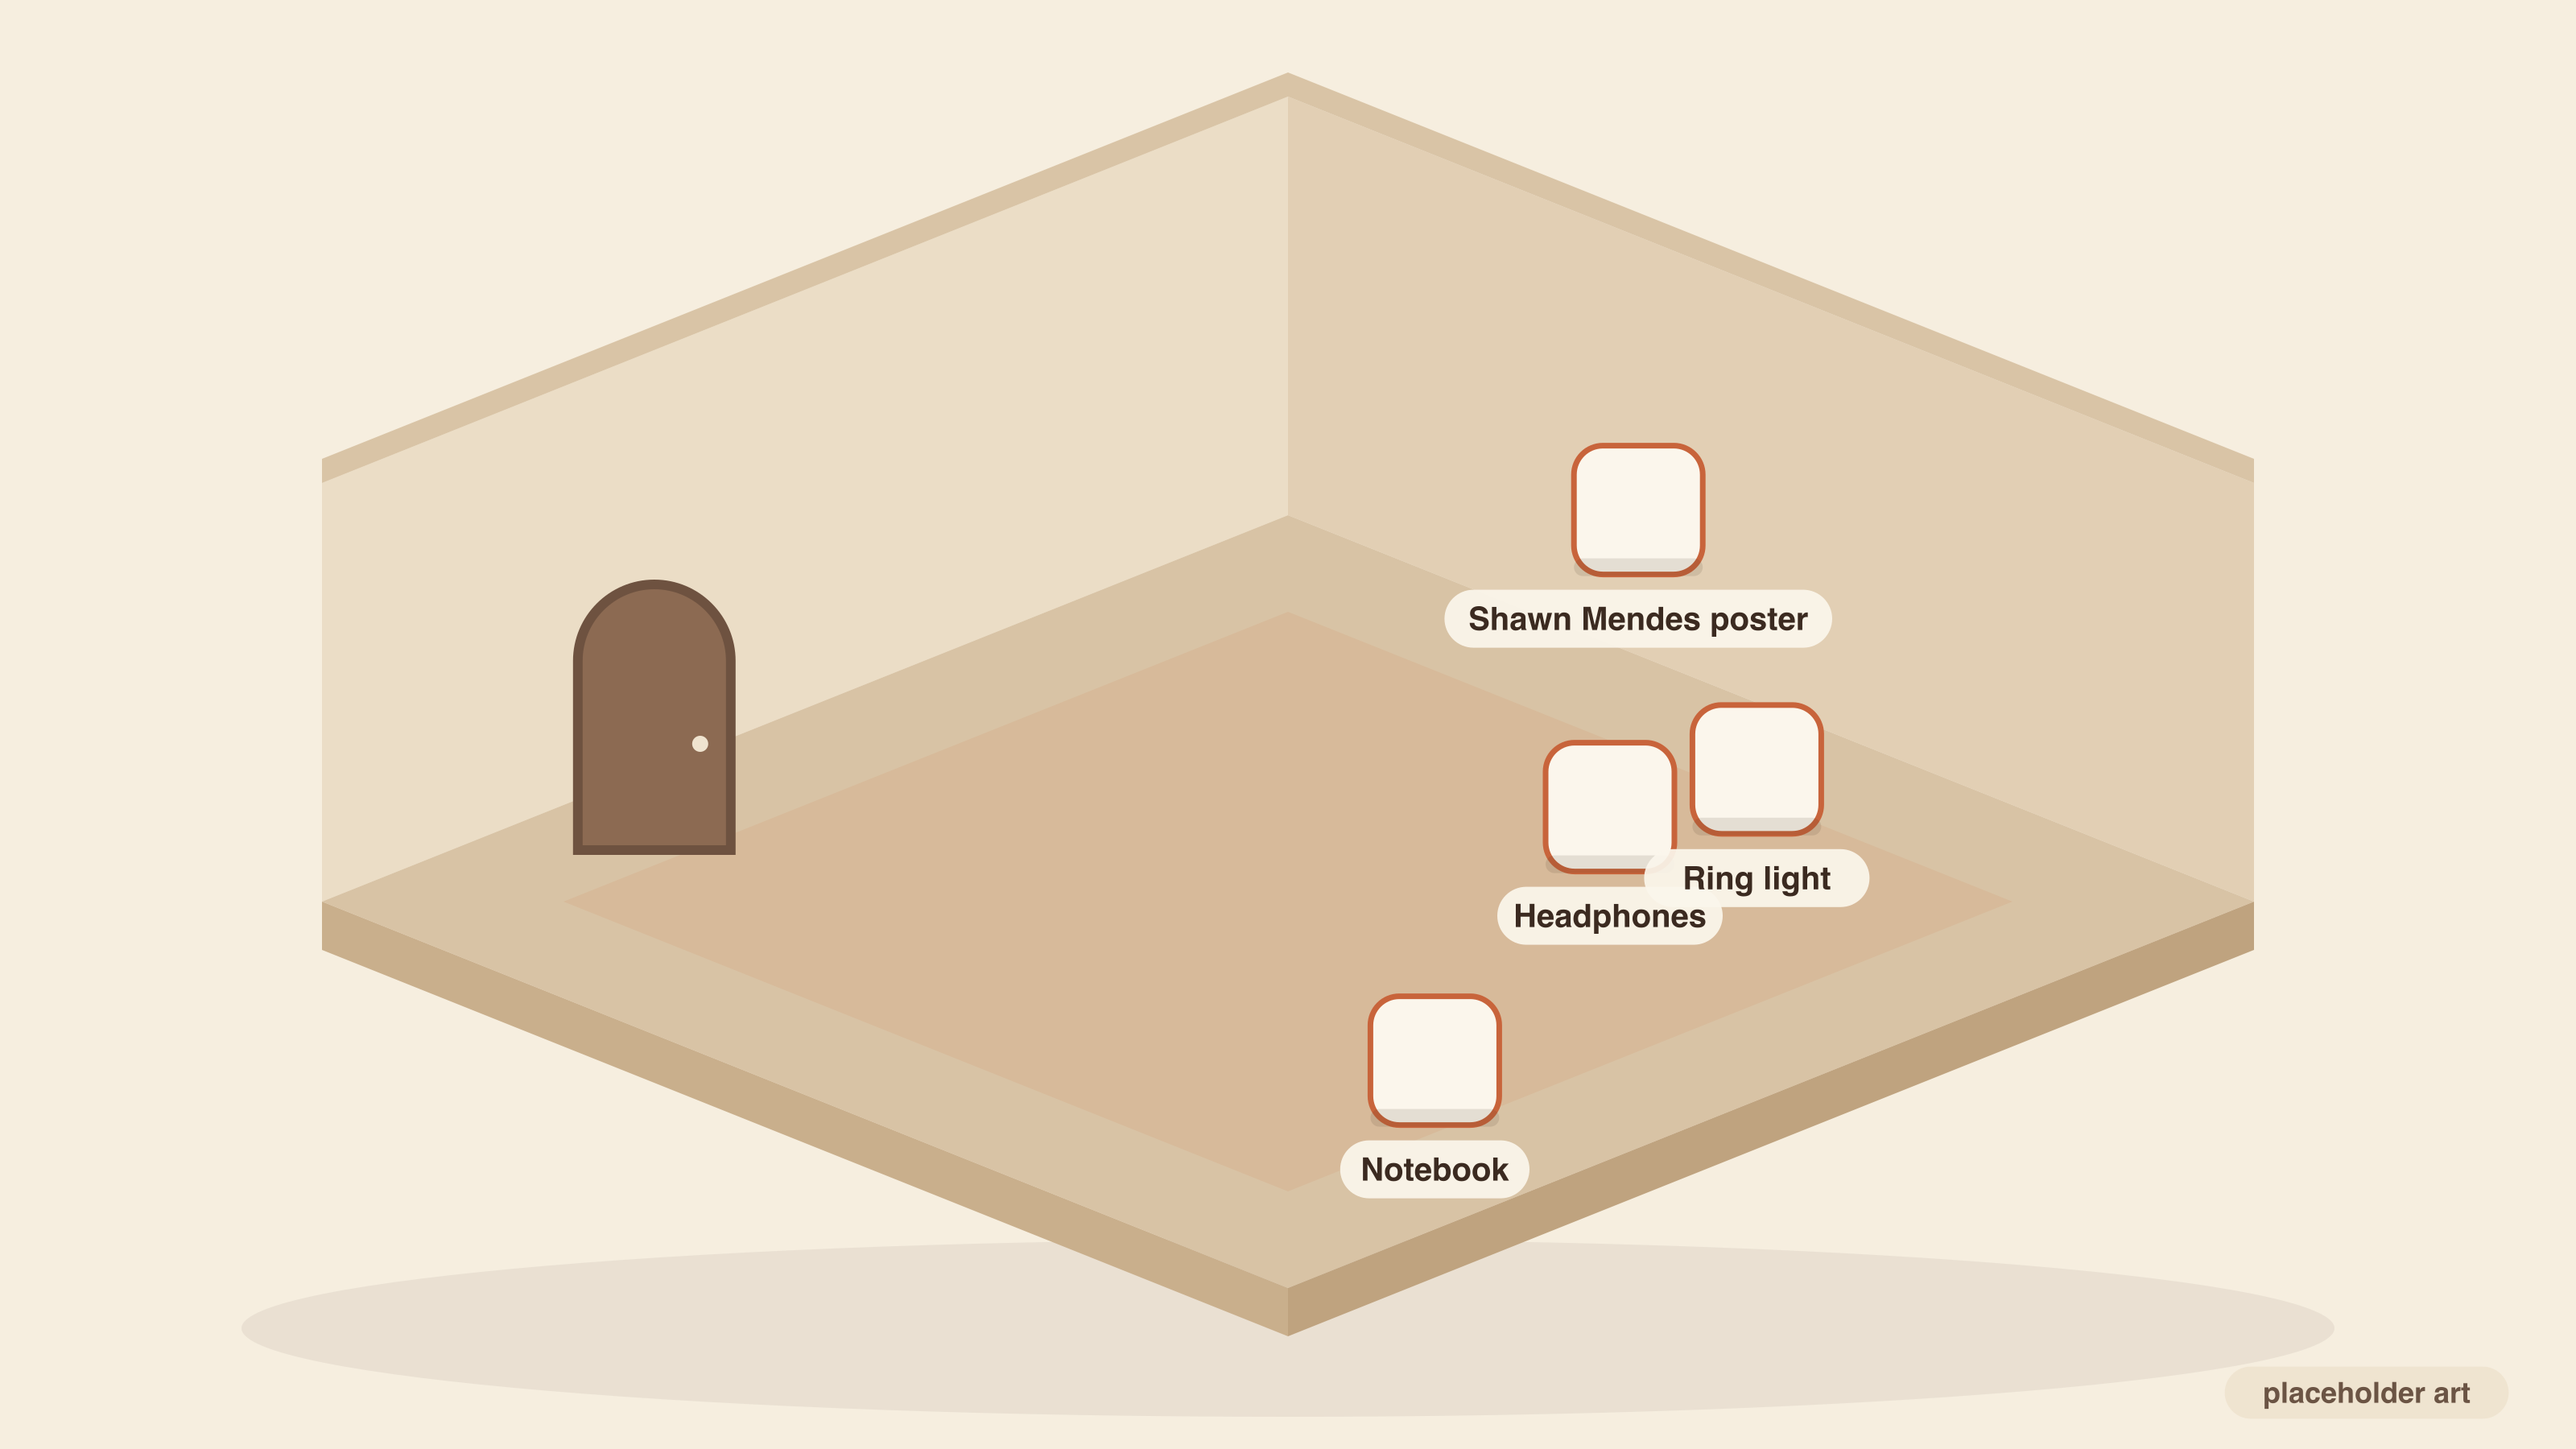
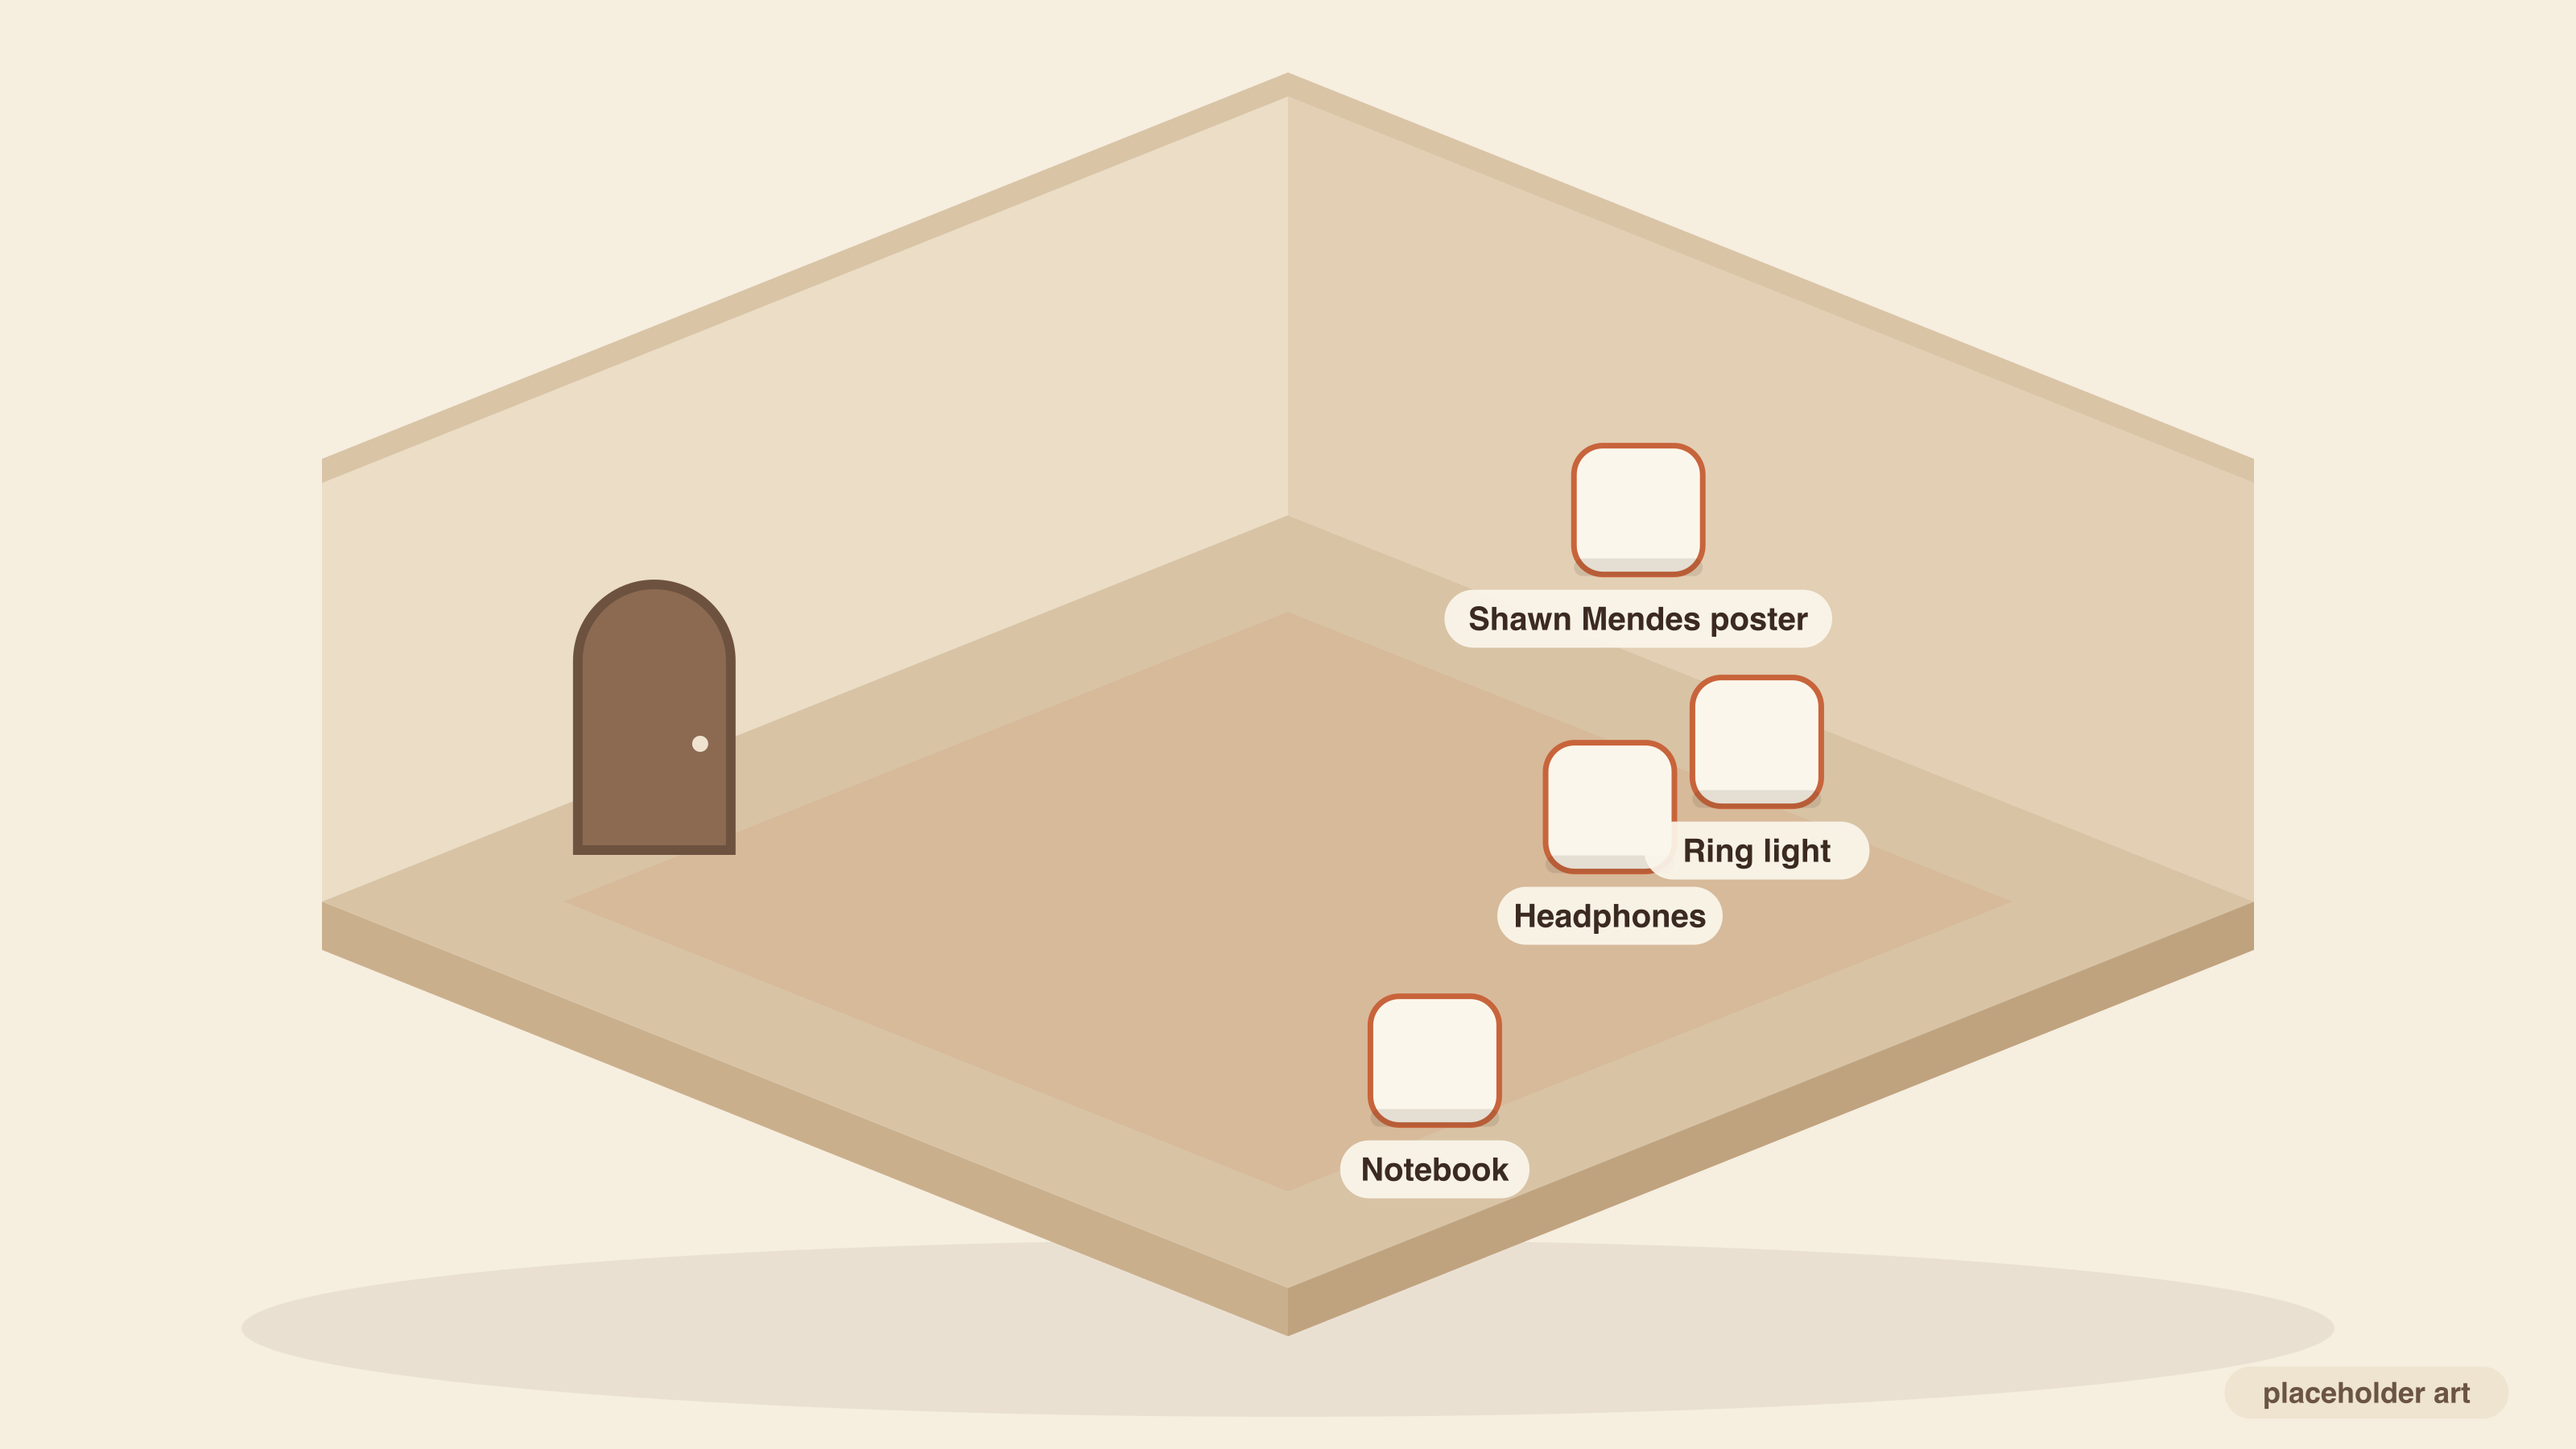
Add photo galleries to the notebook, name sign and mailbox
- Notebook: 10 photos from university life (photography class, campus
  events, friends on the lawn).
- Name sign: 8 portraits of Erika.
- Mailbox: Erika in the lift doorway, above the contact links.
- iPhone HEIC and camera RAW files converted; all photos resized to at
  most 2400px and saved without metadata. The two videos in the notebook
  folder are left out for now.
- Galleries on desktop now use two stacked columns, so tall and wide
  photos sit together without gaps.

Changed region(s): [[0.625, 0.5289, 0.75, 0.6533], [0.6562, 0.4667, 0.7188, 0.4978]]

diff --git a/src/components/CloseUp/blocks/blocks.module.css b/src/components/CloseUp/blocks/blocks.module.css
@@ -43,18 +43,24 @@
   color: var(--color-ink-soft);
 }
 
+/* Desktop: two stacked columns, so tall and wide pictures sit without gaps. */
 .gallery {
   list-style: none;
   margin: 0;
   padding: 0;
-  display: grid;
-  grid-template-columns: 1fr 1fr;
-  gap: var(--space-3);
+  columns: 2;
+  column-gap: var(--space-3);
+}
+
+.gallery > li {
+  break-inside: avoid;
+  margin-bottom: var(--space-3);
 }
 
 /* Phones: a horizontal strip that snaps to each drawing. */
 @media (max-width: 899px) {
   .gallery {
+    columns: auto;
     display: flex;
     overflow-x: auto;
     scroll-snap-type: x mandatory;
@@ -64,6 +70,7 @@
   }
   .gallery > li {
     flex: 0 0 72%;
+    margin-bottom: 0;
     scroll-snap-align: center;
   }
 }
